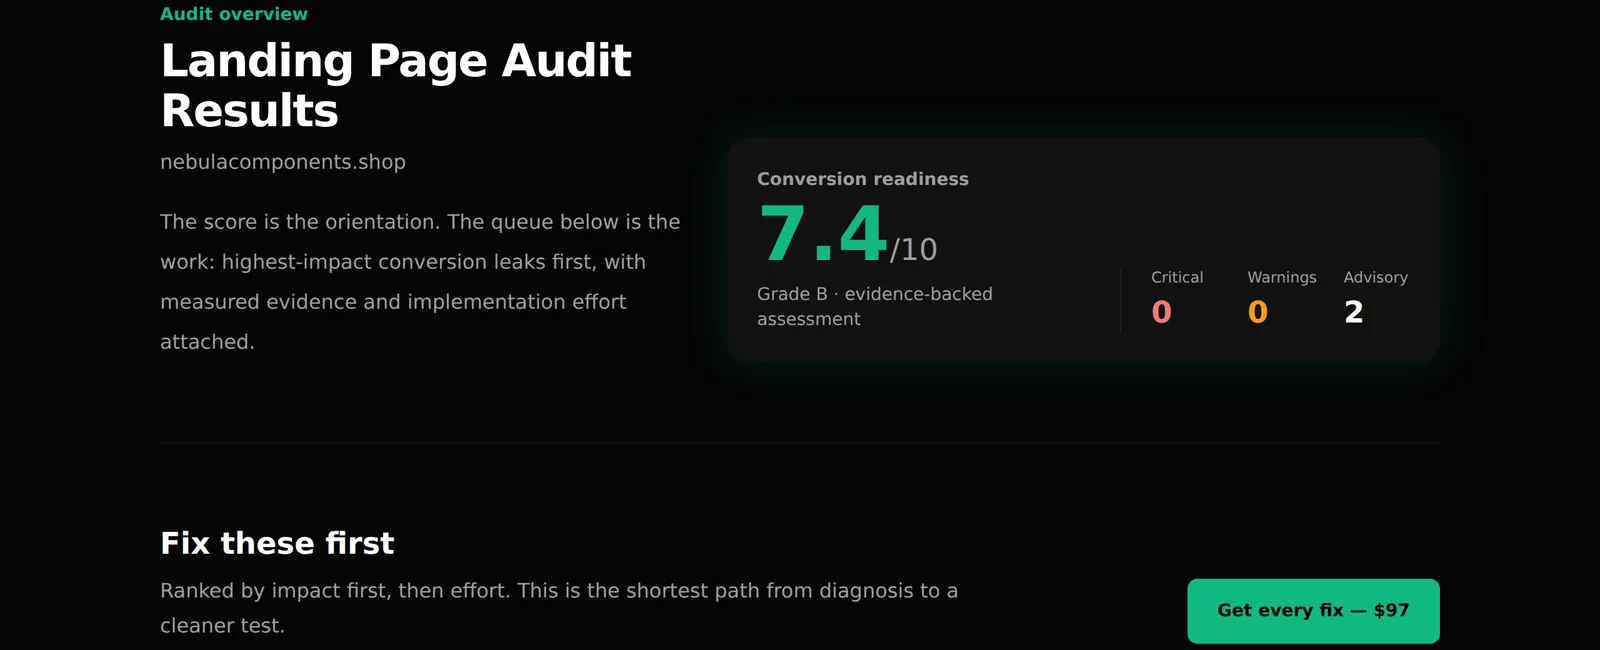
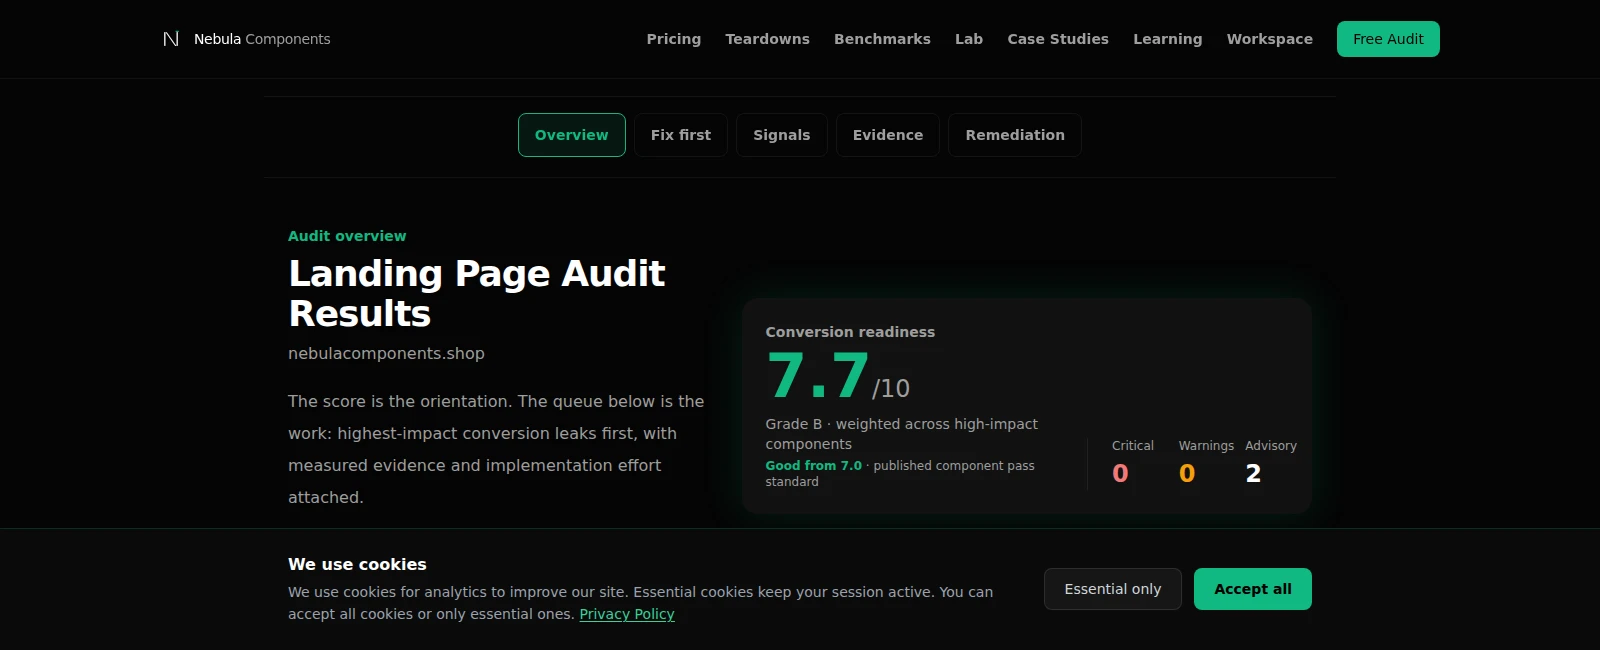
fix: regenerate self-audit screenshot with 9-signal framework

diff --git a/customer-portal/app/audit/page.tsx b/customer-portal/app/audit/page.tsx
@@ -106,7 +106,7 @@ export default function AuditPage() {
             <div className="overflow-hidden rounded-2xl border border-border">
               <Image
                 src="/screenshots/audit-results-example.webp"
-                alt="Real Nebula audit results for nebulacomponents.shop showing a 7.4/10 conversion readiness score, Grade B, 0 critical issues, 0 warnings, and 2 advisory findings"
+                alt="Real Nebula audit results for nebulacomponents.shop showing a 7.7/10 conversion readiness score, Grade B, analysed across 9 conversion signals"
                 width={1600}
                 height={650}
                 className="h-auto w-full"
